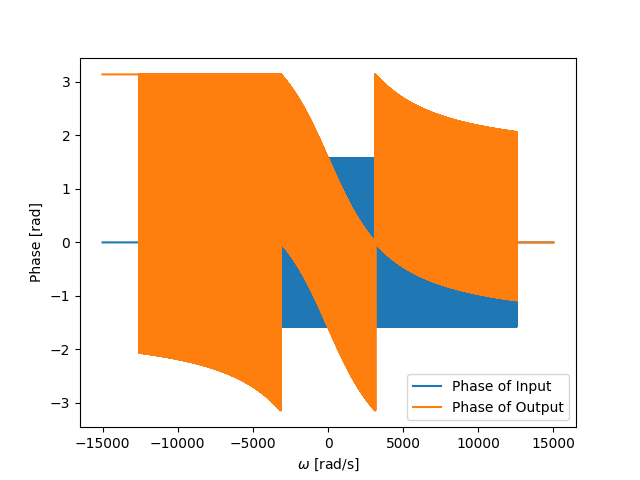
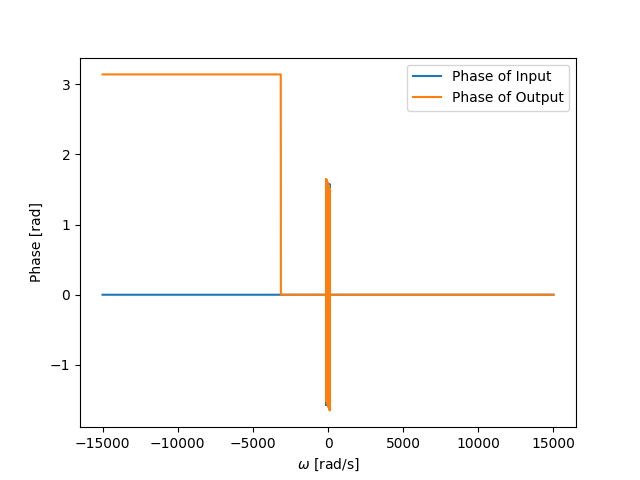
c2_forts

diff --git a/Assignment 2/Assignment2.py b/Assignment 2/Assignment2.py
@@ -69,7 +69,7 @@ def get_nth_f_trans(n, w0, w, dw):
 w_arr = np.arange(-15*10**3, 15*10**3, 1)
 
 res_arr = np.zeros(w_arr.shape)
-for n in range(1, 10000):
+for n in range(1, 100):
     res_arr = res_arr + get_nth_f_trans(n, 2*np.pi/5, w_arr, 1)
 
 
